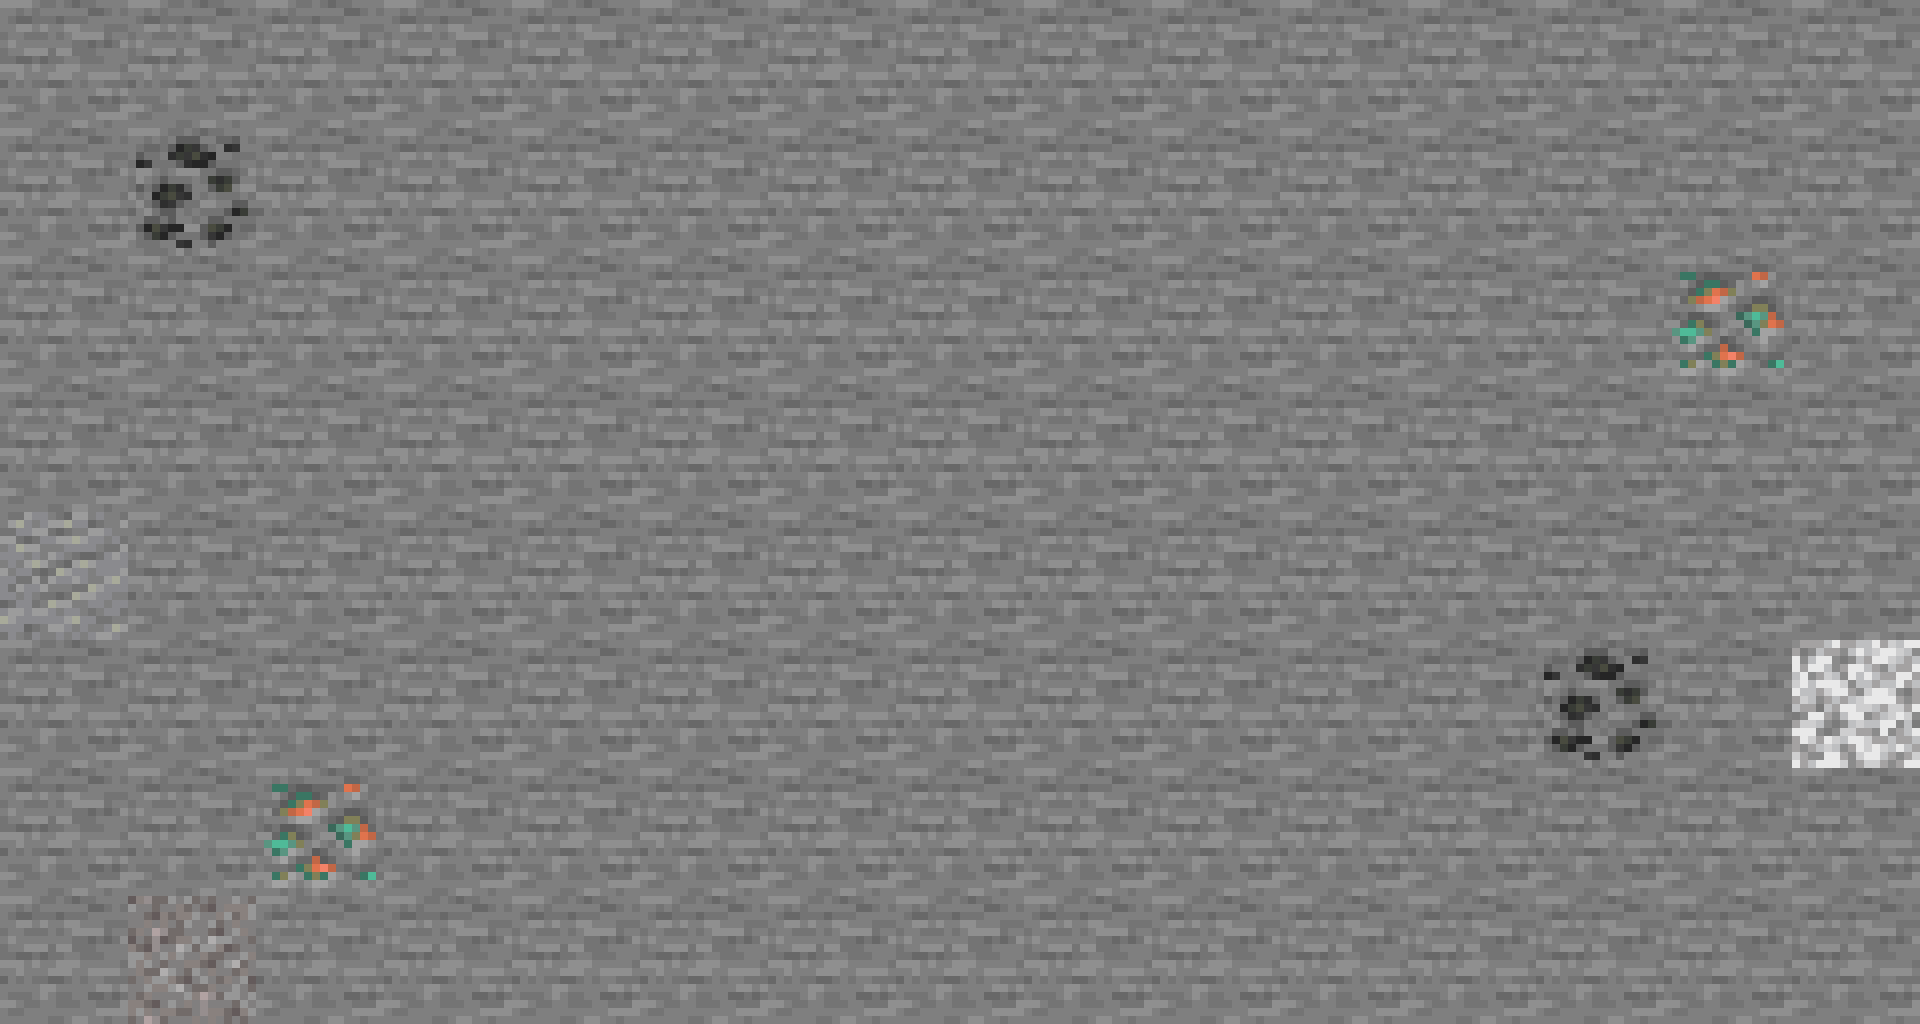
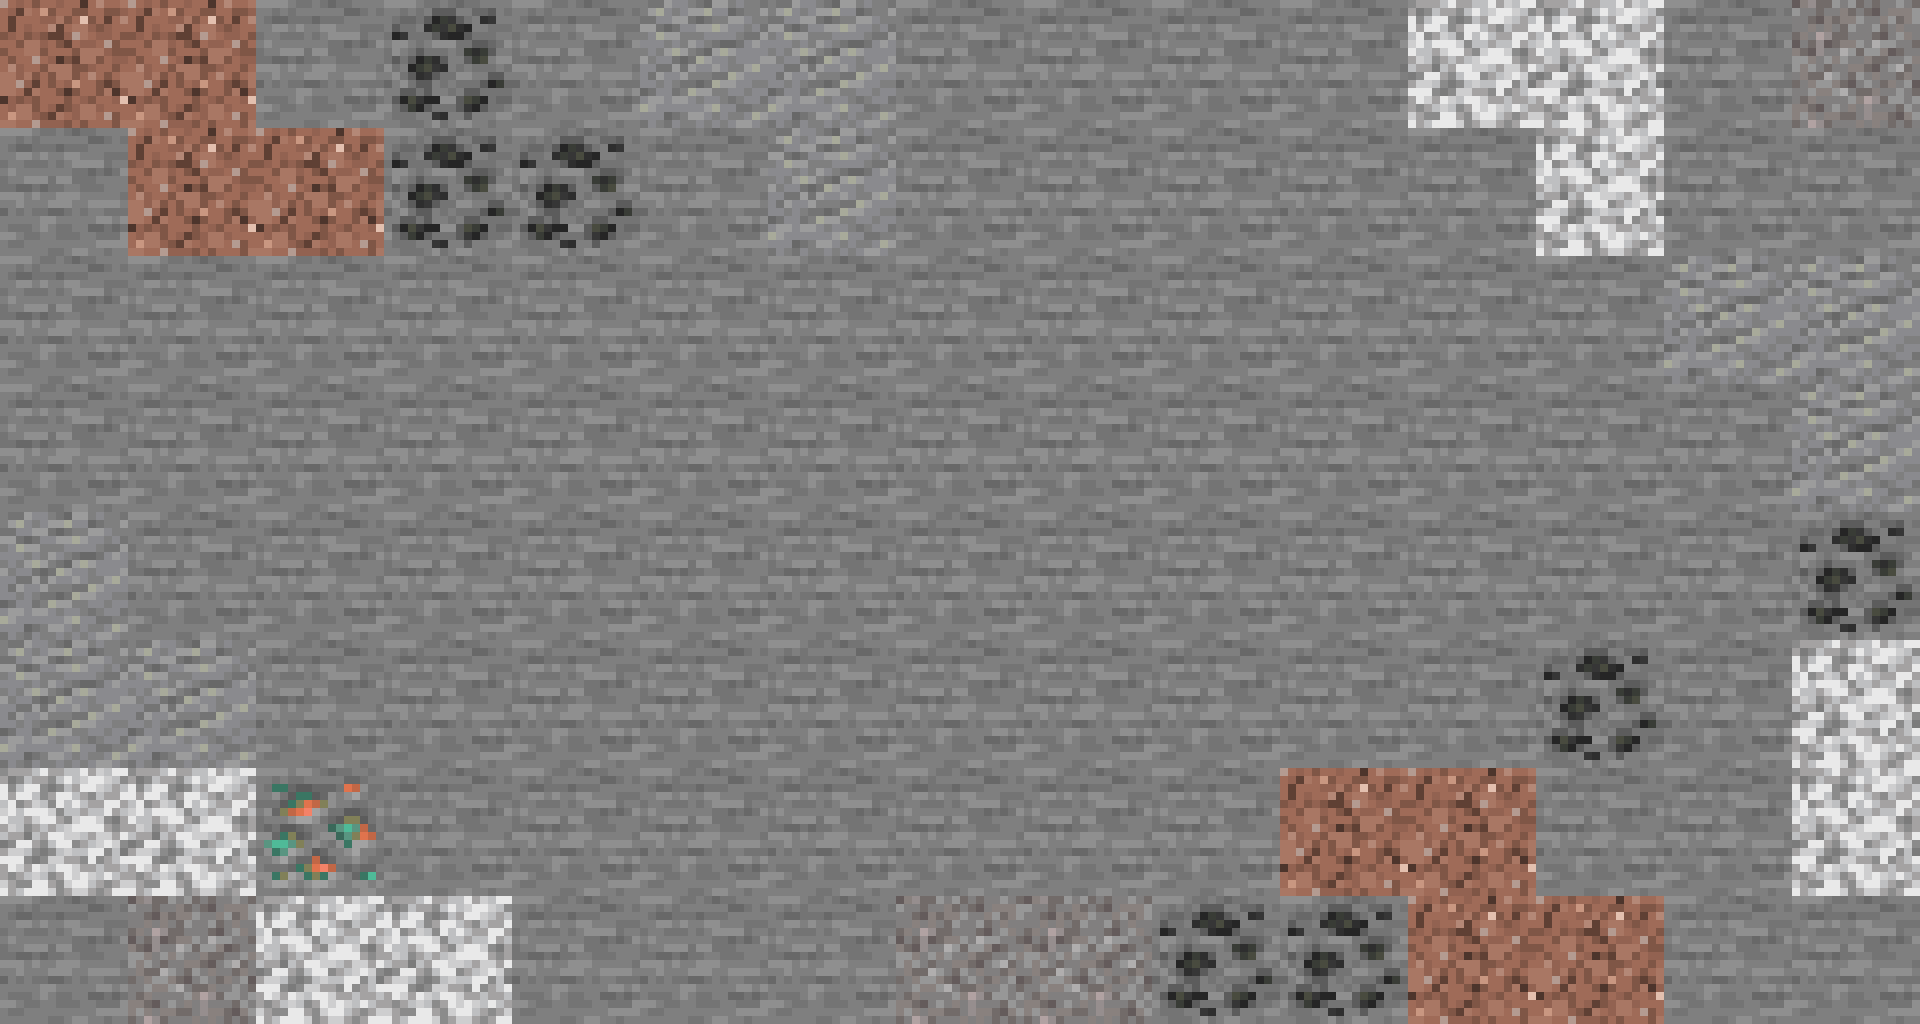
Add End portal entrance and enrich stone layers

diff --git a/src/themes/minecraft/index.tsx b/src/themes/minecraft/index.tsx
@@ -34,7 +34,7 @@ function Navigation() {
       <WorldLink to={`${home}/schedule`} kind="portal" onClick={() => setMenuOpen(false)} aria-current={location.pathname.endsWith("schedule") ? "page" : undefined}>Run of show <span className="mc-nav-portal" aria-hidden="true">↗</span></WorldLink>
       <Link to={`${home}#faq`} onClick={() => setMenuOpen(false)}>FAQ</Link>
     </nav>
-    <WorldLink to={`${home}/apply`} kind="portal" className="mc-button mc-button-small" onClick={() => setMenuOpen(false)}>Join the adventure <ArrowUpRight size={16} /></WorldLink>
+    <WorldLink to={`${home}/apply`} kind="end" className="mc-button mc-button-small" onClick={() => setMenuOpen(false)}>Join the adventure <ArrowUpRight size={16} /></WorldLink>
     <button className="mc-menu" aria-label={menuOpen ? "Close menu" : "Open menu"} aria-expanded={menuOpen} aria-controls="mc-navigation" onClick={() => setMenuOpen(!menuOpen)} onKeyDown={event => { if (event.key === "Escape") setMenuOpen(false); }}>{menuOpen ? <X /> : <Menu />}</button>
   </header>;
 }
@@ -87,7 +87,7 @@ function HomePage() {
         <div className="mc-title-wrap"><h1 id="mc-title" tabIndex={-1}>DATA<span>HACKS</span></h1><span className="mc-edition">THE 2.0 UPDATE</span><span className="mc-splash">Dig a little deeper!</span></div>
         <p className="mc-hero-tagline">Big ideas. Infinite possibilities. One world to build.</p>
         <p className="mc-hero-date">JANUARY 16–17, 2027 <span>✦</span> 36 HOURS <span>✦</span> IN PERSON</p>
-        <div className="mc-hero-actions"><WorldLink to={`${home}/apply`} kind="portal" className="mc-button">Start your adventure <ArrowUpRight size={19} /></WorldLink><a href="#emerald-layer" className="mc-button mc-button-stone">Dig a little deeper <ArrowDown size={17} /></a></div>
+        <div className="mc-hero-actions"><WorldLink to={`${home}/apply`} kind="end" className="mc-button">Start your adventure <ArrowUpRight size={19} /></WorldLink><a href="#emerald-layer" className="mc-button mc-button-stone">Dig a little deeper <ArrowDown size={17} /></a></div>
         <p className="mc-hero-note">All experience levels. No diamonds required.</p>
       </div>
       <div className="mc-hero-bottom"><span>BIOME: CHERRY GROVE<br />Y: +80 · THE SURFACE</span><a href="#emerald-layer">YOUR ADVENTURE CONTINUES BELOW <ArrowDown size={16} /></a><span>SEED: 01162027<br />GAME MODE: COLLABORATIVE</span></div>
@@ -114,12 +114,12 @@ function NetherPage() {
     <PixelBackdrop kind="nether" />
     <div className="mc-container mc-nether-heading"><div><Link to={home} className="mc-dimension-back">← Return to the overworld</Link><p className="mc-eyebrow">DIMENSION 02 / THE NETHER</p><h1 tabIndex={-1}>Things are<br />heating <em>up.</em></h1><p>Your run of show. Two days of building, learning,<br className="mc-desktop-break" /> and making something worth staying up for.</p><span className="mc-nether-date">JANUARY 16–17, 2027 · PACIFIC TIME</span></div><PixelSprite kind="portal" animated className="mc-nether-portal" /></div>
     <Schedule />
-    <div className="mc-container mc-nether-foot"><span>Keep your inventory close. Adventure awaits.</span><WorldLink to={`${home}/apply`} kind="portal" className="mc-button">Join the adventure <ArrowUpRight size={17} /></WorldLink></div>
+    <div className="mc-container mc-nether-foot"><span>Keep your inventory close. Adventure awaits.</span><WorldLink to={`${home}/apply`} kind="end" className="mc-button">Join the adventure <ArrowUpRight size={17} /></WorldLink></div>
   </div>;
 }
 
 function Footer() {
-  return <footer className="mc-footer mc-bedrock-footer"><div className="mc-container"><div className="mc-footer-top"><Link to={home} className="mc-brand">DATAHACKS 2.0</Link><p>A world of ideas, crafted together.</p><Link to={`${home}#top`} className="mc-back-top">Back to spawn ↑</Link></div><div className="mc-footer-links"><p>Organized by DS3<br /><span>Data Science Student Society</span></p><nav aria-label="Footer navigation"><Link to={`${home}#about`}>About</Link><Link to={`${home}#tracks`}>Tracks</Link><Link to={`${home}#speakers`}>Speakers</Link><Link to={`${home}#prizes`}>Prizes</Link><WorldLink to={`${home}/schedule`} kind="portal">Run of show</WorldLink><WorldLink to={`${home}/apply`} kind="portal">Apply</WorldLink><Link to={`${home}#faq`}>FAQ</Link></nav><a href="mailto:hello@ds3ucsd.com">hello@ds3ucsd.com</a></div><div className="mc-footer-fine"><p>© 2027 DS3 · Concept preview · Not a live registration page.<br />Unofficial Minecraft-inspired design. Not affiliated with Mojang or Microsoft.</p><Link to="/themes">← All theme mockups</Link></div></div></footer>;
+  return <footer className="mc-footer mc-world-footer"><div className="mc-container"><div className="mc-footer-top"><Link to={home} className="mc-brand">DATAHACKS 2.0</Link><p>A world of ideas, crafted together.</p><Link to={`${home}#top`} className="mc-back-top">Back to spawn ↑</Link></div><div className="mc-footer-links"><p>Organized by DS3<br /><span>Data Science Student Society</span></p><nav aria-label="Footer navigation"><Link to={`${home}#about`}>About</Link><Link to={`${home}#tracks`}>Tracks</Link><Link to={`${home}#speakers`}>Speakers</Link><Link to={`${home}#prizes`}>Prizes</Link><WorldLink to={`${home}/schedule`} kind="portal">Run of show</WorldLink><WorldLink to={`${home}/apply`} kind="end">Apply</WorldLink><Link to={`${home}#faq`}>FAQ</Link></nav><a href="mailto:hello@ds3ucsd.com">hello@ds3ucsd.com</a></div><div className="mc-footer-fine"><p>© 2027 DS3 · Concept preview · Not a live registration page.<br />Unofficial Minecraft-inspired design. Not affiliated with Mojang or Microsoft.</p><Link to="/themes">← All theme mockups</Link></div></div></footer>;
 }
 
 export default function Minecraft() {

diff --git a/src/themes/minecraft/layers.css b/src/themes/minecraft/layers.css
@@ -17,6 +17,8 @@
 .minecraft-root .mc-texture-layer .mc-section-head { gap:30px; }
 .minecraft-root .mc-texture-layer .mc-text-link { color:#e2d3b8; }
 .minecraft-root .mc-texture-about { min-height:370px; padding-bottom:75px; }
+.minecraft-root .mc-texture-tracks { background:#636461 url('/images/minecraft/layers/02-tracks.webp') center top/100% auto repeat-y; image-rendering:pixelated; }
+.minecraft-root .mc-texture-tracks>.mc-layer-art { display:none; }
 .minecraft-root .mc-texture-about .mc-layer-label { margin-bottom:35px; }
 .minecraft-root .mc-texture-about .mc-about-numbers { background:#171d24f5; padding:38px 20px; }
 .minecraft-root .mc-number-grid { display:grid; grid-template-columns:repeat(4,minmax(0,1fr)); margin:0; }
@@ -62,13 +64,18 @@
 .minecraft-root .mc-lava-apply h2 em { color:#f4d5aa; }
 .minecraft-root .mc-lava-apply p { font-size:16px; margin:16px auto; text-shadow:0 2px #101214; }
 .minecraft-root .mc-application-portal { display:flex; align-items:center; flex-direction:column; width:fit-content; margin:30px auto 0; gap:20px; }
-.minecraft-root .mc-application-portal img { width:160px; height:240px; image-rendering:pixelated; transition:filter .2s; }
+.minecraft-root .mc-application-portal img { width:240px; height:240px; image-rendering:pixelated; transition:filter .2s; }
 .minecraft-root .mc-application-portal:hover img { filter:brightness(1.15); }
-.minecraft-root .mc-application-portal .mc-button { background:#ac91c8; box-shadow:inset 3px 3px #dcc4f0,inset -3px -3px #6c507f,0 5px #15131b; border-color:#201b29; color:#24182e; }
+.minecraft-root .mc-application-portal .mc-button { background:#b9ccb0; box-shadow:inset 3px 3px #e3ecd4,inset -3px -3px #5f8074,0 5px #101d1b; border-color:#182e28; color:#142e28; }
+.minecraft-root .mc-run-of-show-link { display:inline-block; margin:30px 0 8px; padding:12px 18px; color:#e4cef6; background:#231e30; border:1px solid #9e83b5; font-size:16px; text-decoration:underline; text-underline-offset:5px; }
+.minecraft-root .mc-run-of-show-link:hover { background:#342941; }
 .minecraft-root .mc-lava-apply p.mc-lava-note { background:#131920f2; padding:8px 14px; width:fit-content; max-width:100%; font-size:14px; }
-.minecraft-root .mc-bedrock-footer { position:relative; background:url('/images/minecraft/layers/08-footer.webp') center/960px auto; border-top:16px solid #101215; padding:50px 0; }
-.minecraft-root .mc-bedrock-footer>.mc-container { background:#11171af5; border:2px solid #666e72; padding:24px; color:#dce1df; }
-.minecraft-root .mc-bedrock-footer .mc-footer-fine,.minecraft-root .mc-bedrock-footer .mc-footer-top p,.minecraft-root .mc-bedrock-footer .mc-footer-links p span { color:#bdc6c6; }
+.minecraft-root .mc-world-footer { position:relative; background:#141e20; border-top:2px solid #4e6660; padding:50px 0; }
+.minecraft-root .mc-world-footer>.mc-container { padding:24px; color:#dce1df; }
+.minecraft-root .mc-world-footer .mc-footer-fine,.minecraft-root .mc-world-footer .mc-footer-top p,.minecraft-root .mc-world-footer .mc-footer-links p span { color:#bdc6c6; }
+.minecraft-root .mc-travel-end { background:#071514; }
+.minecraft-root .mc-travel-end .mc-travel-sprite { width:min(65vw,320px); height:auto; image-rendering:pixelated; animation:mc-end-enter 1.85s cubic-bezier(.55,0,.8,.4) both; }
+@keyframes mc-end-enter { 0% { transform:scale(.8); opacity:0; } 20% { transform:scale(1); opacity:1; } 55% { transform:scale(1.1); } 100% { transform:scale(12); } }
 @media(max-width:900px) {
  .minecraft-root .mc-texture-layer .mc-section { width:88%; padding:28px; }
  .minecraft-root .mc-texture-speakers .mc-section { width:80%; }
@@ -98,7 +105,7 @@
  .minecraft-root .mc-texture-apply { padding-bottom:95px; }
  .minecraft-root .mc-lava-apply>div>p { max-width:300px; }
  .minecraft-root .mc-lava-apply h2 { font-size:27px; }
- .minecraft-root .mc-application-portal img { width:128px; height:192px; }
- .minecraft-root .mc-bedrock-footer>.mc-container { padding:20px; }
+ .minecraft-root .mc-application-portal img { width:192px; height:192px; }
+ .minecraft-root .mc-world-footer>.mc-container { padding:20px; }
 }
-@media(prefers-reduced-motion:reduce) { .minecraft-root .mc-sculk-rings { display:none; } }
+@media(prefers-reduced-motion:reduce) { .minecraft-root .mc-sculk-rings { display:none; } .minecraft-root .mc-travel-end .mc-travel-sprite { animation:none; } }

diff --git a/src/themes/minecraft/WorldTravel.tsx b/src/themes/minecraft/WorldTravel.tsx
@@ -2,7 +2,7 @@ import { createContext, useCallback, useContext, useEffect, useRef, useState, ty
 import { Link, useLocation, useNavigate, type LinkProps } from "react-router-dom";
 import { PixelSprite } from "./PixelWorld";
 
-type Trip = { to: string; kind: "portal" | "creeper" };
+type Trip = { to: string; kind: "portal" | "creeper" | "end" };
 const TravelContext = createContext<(trip: Trip) => void>(() => {});
 
 export function WorldTravel({ children }: { children: ReactNode }) {
@@ -58,10 +58,10 @@ export function WorldTravel({ children }: { children: ReactNode }) {
   return <TravelContext.Provider value={depart}>
     <div ref={content}>{children}</div>
     {trip && <div className={`mc-travel mc-travel-${trip.kind}`} role="dialog" aria-modal="true" aria-label={trip.kind === "portal" ? (trip.to.endsWith("apply") ? "Opening the application preview" : "Traveling to the Nether schedule") : "Opening the application preview"}>
-      <div className="mc-travel-scene" aria-hidden="true"><PixelSprite kind={trip.kind} animated={trip.kind === "portal"} className="mc-travel-sprite" />
+      <div className="mc-travel-scene" aria-hidden="true">{trip.kind === "end" ? <img src="/images/minecraft/layers/end-portal.png" alt="" width="400" height="400" className="mc-travel-sprite" /> : <PixelSprite kind={trip.kind} animated={trip.kind === "portal"} className="mc-travel-sprite" />}
         {trip.kind === "creeper" && <div className="mc-explosion">{Array.from({ length: 28 }, (_, i) => <i key={i} style={{ "--dx": `${Math.cos(i * 2.4) * (140 + i * 14)}px`, "--dy": `${Math.sin(i * 2.4) * (140 + i * 14)}px`, "--turn": `${i * 53}deg`, "--size": `${15 + i % 5 * 9}px` } as CSSProperties} />)}</div>}
       </div>
-      <div className="mc-travel-copy" role="status"><p>{trip.kind === "portal" ? (trip.to.endsWith("apply") ? "Entering your next adventure…" : "Entering the Nether…") : "Ssssss…"}</p><span>{trip.kind === "portal" ? "Loading your next adventure" : "Making a little room for big ideas"}</span><div className="mc-travel-progress"><i /></div></div>
+      <div className="mc-travel-copy" role="status"><p>{trip.kind === "end" ? "Entering the End…" : trip.kind === "portal" ? "Entering the Nether…" : "Ssssss…"}</p><span>{trip.kind !== "creeper" ? "Loading your next adventure" : "Making a little room for big ideas"}</span><div className="mc-travel-progress"><i /></div></div>
       <button ref={skip} onClick={arrive} className="mc-travel-skip">Skip animation →</button>
     </div>}
   </TravelContext.Provider>;

diff --git a/src/themes/minecraft/DescentSections.tsx b/src/themes/minecraft/DescentSections.tsx
@@ -44,7 +44,8 @@ export function LavaApply() {
   return <section className="mc-lava-apply" id="apply" aria-labelledby="mc-lava-title"><div className="mc-container">
     <p className="mc-eyebrow">07 / YOUR NEXT CHAPTER</p><h2 id="mc-lava-title">One more step.<br /><em>A whole new adventure.</em></h2>
     <p>January 16–17, 2027. Bring your curiosity. Find your people.</p>
-    <WorldLink to="/minecraft/apply" kind="portal" className="mc-application-portal" aria-label="Enter the portal to the application preview" data-mineable><img src="/images/minecraft/layers/portal.png" alt="" width="192" height="288" loading="lazy" /><span className="mc-button">Enter the application →</span></WorldLink>
+    <WorldLink to="/minecraft/apply" kind="end" className="mc-application-portal" aria-label="Enter the End portal to the application preview" data-mineable><img src="/images/minecraft/layers/end-portal.png" alt="" width="400" height="400" loading="lazy" /><span className="mc-button">Enter the End portal →</span></WorldLink>
+    <WorldLink to="/minecraft/schedule" kind="portal" className="mc-run-of-show-link">Explore the Nether · Run of show ↗</WorldLink>
     <p className="mc-lava-note">Application preview · Registration opens closer to the event</p>
   </div></section>;
 }

diff --git a/scripts/build-minecraft-layers.py b/scripts/build-minecraft-layers.py
@@ -14,11 +14,15 @@ TEX.mkdir(parents=True, exist_ok=True)
 JAR = Path.home() / 'Library/Application Support/minecraft/versions/26.2/26.2.jar'
 names = '''stone coal_ore copper_ore iron_ore redstone_ore andesite granite diorite gravel sulfur cinnabar glow_lichen cobbled_deepslate deepslate deepslate_diamond_ore deepslate_redstone_ore deepslate_lapis_ore deepslate_iron_ore deepslate_bricks cracked_deepslate_bricks deepslate_tiles reinforced_deepslate_side oak_planks oak_log cobweb rail torch sculk sculk_vein sculk_sensor_top sculk_sensor_side sculk_sensor_tendril_inactive sculk_shrieker_side sculk_shrieker_top obsidian nether_portal lava_still bedrock sulfur_spike_up_tip sulfur_spike_up_middle'''.split()
 manifest = {'source': 'Minecraft Java Edition 26.2 client block textures (Mojang)', 'pixel_scale': 8, 'textures': {}, 'layers': {}}
+names += ['end_portal_frame_top', 'end_portal_frame_eye']
 with zipfile.ZipFile(JAR) as archive:
     for name in names:
         raw = archive.read(f'assets/minecraft/textures/block/{name}.png')
         (TEX / f'{name}.png').write_bytes(raw)
         manifest['textures'][name] = hashlib.sha256(raw).hexdigest()
+    end_surface = archive.read('assets/minecraft/textures/entity/end_portal/end_portal.png')
+    (TEX / 'end_portal_surface.png').write_bytes(end_surface)
+    manifest['textures']['end_portal_surface'] = hashlib.sha256(end_surface).hexdigest()
 textures = {n: Image.open(TEX / f'{n}.png').convert('RGBA').crop((0,0,16,16)).resize((32,32), Image.Resampling.NEAREST) for n in names}
 W, H = 480, 256
 
@@ -55,8 +59,21 @@ def save(im, slug, info):
     return im
 
 about = rock(12,'stone',{'coal_ore':[(2,3),(3,3),(25,10)],'copper_ore':[(27,4),(27,5),(4,12)],'andesite':[(1,8)],'diorite':[(28,11)],'gravel':[(2,14),(3,14)]})
-save(about,'01-about','Stone, coal and copper; occasional andesite, diorite and gravel. No other ore.')
+def enrich_stone(im):
+    # Connected deposits across the wall, including areas visible around the panels.
+    deposits = {
+        'granite': [(0,0),(1,0),(1,1),(2,1),(10,6),(11,6),(11,7),(12,7)],
+        'andesite': [(5,0),(6,0),(6,1),(0,4),(0,5),(1,5),(13,2),(14,2),(14,3)],
+        'diorite': [(11,0),(12,0),(12,1),(0,6),(1,6),(2,7),(3,7),(14,5),(14,6)],
+        'gravel': [(7,7),(8,7),(14,0)],
+    }
+    for material, cells in deposits.items():
+        for x,y in cells: tile(im,material,x*32,y*32)
+enrich_stone(about)
+for x,y in [(3,0),(3,1),(4,1),(9,7),(10,7),(14,4)]: tile(about,'coal_ore',x*32,y*32)
+save(about,'01-about','Stone with connected granite, andesite, diorite and gravel deposits, coal seams and sparse copper. Original texture colors preserved.')
 tracks = rock(7,'stone',{'iron_ore':[(3,5)],'copper_ore':[(26,9)],'redstone_ore':[(27,3),(28,3)],'andesite':[(1,2),(2,2),(2,3),(27,12)],'granite':[(28,6),(28,7),(29,7)],'diorite':[(2,10),(3,10)],'gravel':[(0,13),(1,13),(1,14),(28,14)]})
+enrich_stone(tracks)
 save(tracks,'02-tracks','Stone mixed with andesite, granite, diorite and gravel; exactly one iron and one copper ore block; two redstone blocks.')
 sulfur = rock(2,'sulfur',{'stone':[(1,2),(2,2),(2,3),(3,3),(26,2),(27,2),(27,3),(28,11),(27,12)],'cinnabar':[(0,13),(1,13),(28,13),(29,14)]},True)
 for x,y in [(2,2),(3,3),(27,2),(28,11)]: tile(sulfur,'glow_lichen',int(x/2)*32,int(y/2)*32)
@@ -105,15 +122,25 @@ fill(apply,'lava_still',(0,192,W,64))
 for x,y,w,h in [(0,160,64,64),(48,192,32,48),(400,176,80,64),(384,208,32,32),(144,176,192,32)]:
     fill(apply,'cobbled_deepslate',(x,y,w,h))
     fill(apply,'deepslate_tiles',(x,y,w,8))
-save(apply,'07-apply','2D lava cavern with flat recessed stone wall, overlapping ledges and an isolated central platform for the live clickable Nether portal.')
-bedrock=rock(1,'bedrock',{})
-save(bedrock,'08-footer','Original bedrock texture across the full footer.')
+save(apply,'07-apply','2D lava cavern with flat recessed stone wall, overlapping ledges and an isolated central platform for the live clickable End portal. No bedrock footer.')
 # A reusable portal and four sensor/shrieker sprites preserve alpha and first-frame vanilla texels.
 textures = {n: Image.open(TEX / f'{n}.png').convert('RGBA').crop((0,0,16,16)) for n in names}
 portal=Image.new('RGBA',(64,96))
 fill(portal,'obsidian',(0,0,64,96))
 fill(portal,'nether_portal',(16,16,32,64))
 portal.resize((192,288),Image.Resampling.NEAREST).save(OUT/'portal.png')
+# Orthographic overhead End portal: twelve original eye frames around a 3x3 void.
+end_portal=Image.new('RGBA',(80,80))
+sky=Image.open(TEX/'end_portal_surface.png').convert('RGBA').resize((48,48),Image.Resampling.NEAREST)
+end_portal.alpha_composite(sky,(16,16))
+for turn in range(4):
+    for i in range(1,4):
+        frame=textures['end_portal_frame_top'].copy()
+        frame.alpha_composite(textures['end_portal_frame_eye'])
+        frame=frame.rotate(90*turn)
+        x,y=[(i*16,0),(0,i*16),(i*16,64),(64,i*16)][turn]
+        end_portal.alpha_composite(frame,(x,y))
+end_portal.resize((400,400),Image.Resampling.NEAREST).save(OUT/'end-portal.png')
 for kind in ['sensor','shrieker']:
     sprite=Image.new('RGBA',(32,32))
     tile(sprite,f'sculk_{kind}_side',8,16)
@@ -124,11 +151,11 @@ for kind in ['sensor','shrieker']:
     sprite.resize((128,128),Image.Resampling.NEAREST).save(OUT/f'{kind}.png')
 (OUT/'manifest.json').write_text(json.dumps(manifest,indent=2)+'\n')
 # Overview for artwork review only; not a production image.
-preview=Image.new('RGB',(960,8*292),'#111820')
+preview=Image.new('RGB',(960,len(manifest['layers'])*292),'#111820')
 d=ImageDraw.Draw(preview)
 for i,(slug,info) in enumerate(manifest['layers'].items()):
     d.text((16,i*292+8),slug.upper(),fill='#eef3ef')
     thumb=Image.open(OUT/f'{slug}.png').resize((960,256),Image.Resampling.NEAREST)
     preview.paste(thumb,(0,i*292+28))
 preview.save(ROOT/'output/imagegen/layer-overview.jpg',quality=92)
-print('Built 8 backgrounds, portal and sculk sprites; source hashes recorded in manifest.json')
+print('Built 7 backgrounds, Nether/End portals and sculk sprites; source hashes recorded in manifest.json')
